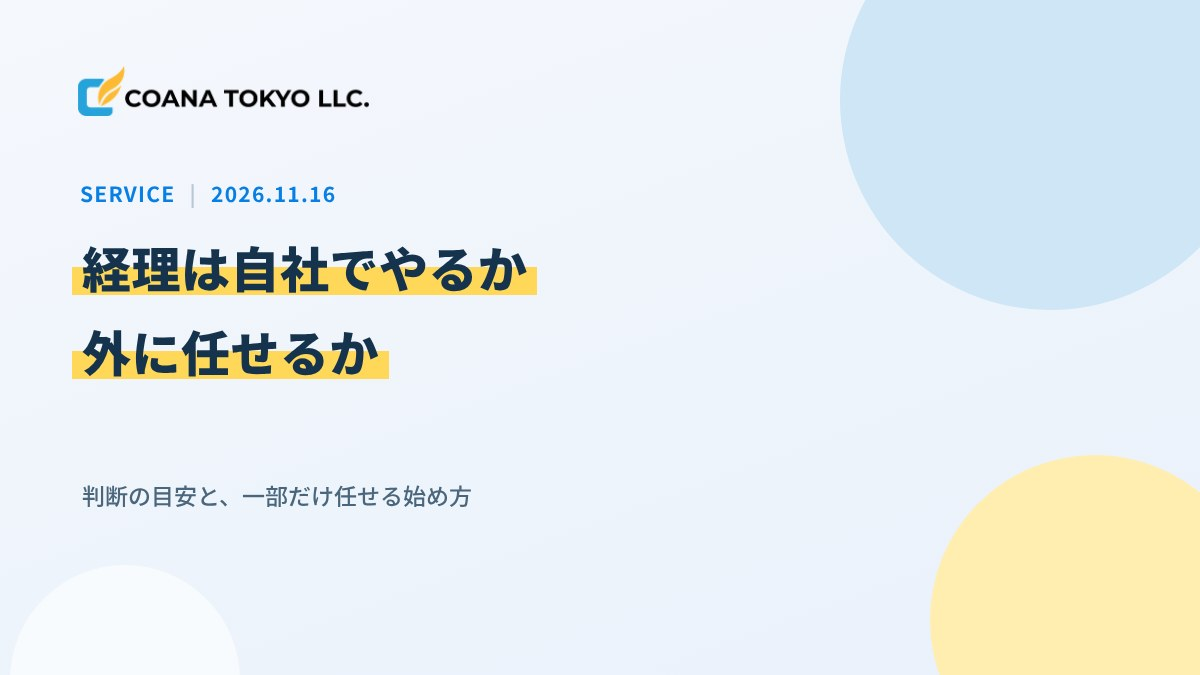
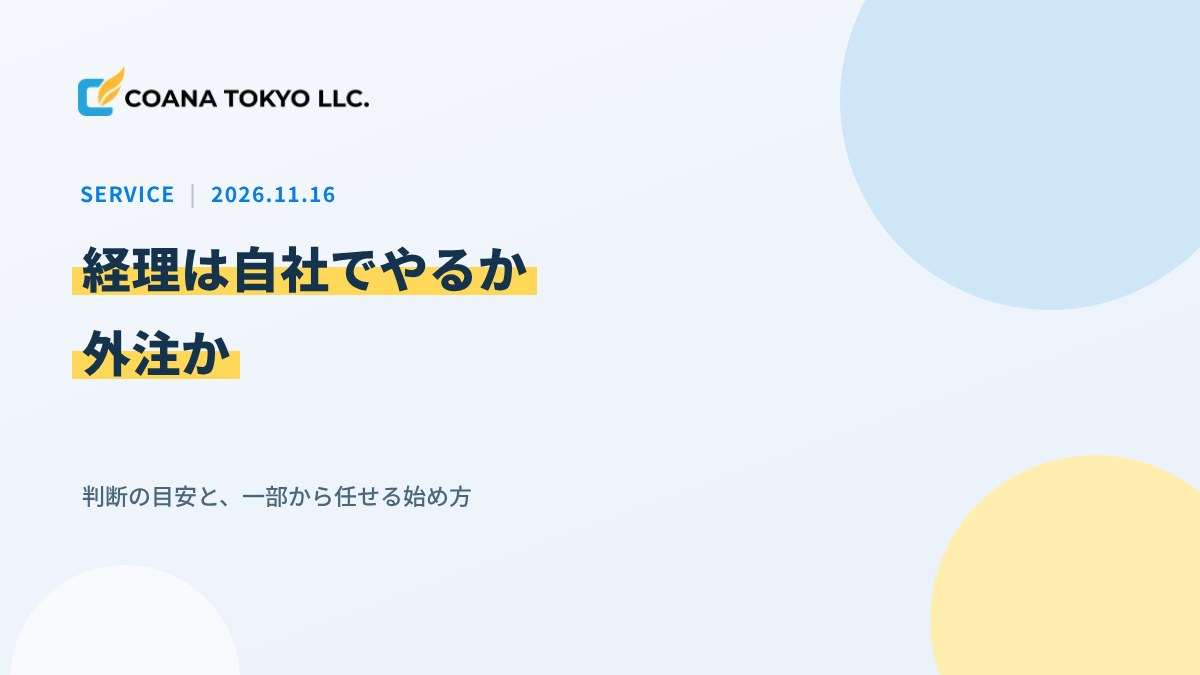
コラム（11/16）：レビュー指摘を反映（既存記事と重なる節を独自の内容に、1か月の記録で確かめる方法、3つの段階の図、失敗例の差し替え）
Claude-Session: https://claude.ai/code/session_01HbxZBk1N9D7dtypAM8AM36

Changed region(s): [[0.0925, 0.4667, 0.3392, 0.5911], [0.2467, 0.7156, 0.2775, 0.7467]]

diff --git a/content/topics/20261116-bookkeeping-inhouse-or-outsource.md b/content/topics/20261116-bookkeeping-inhouse-or-outsource.md
@@ -1,9 +1,9 @@
 ---
-title: "経理は自社でやるか、外に任せるか｜小さな会社の判断の目安と、一部だけ任せる始め方"
+title: "経理は自社でやるか外注か｜小さな会社の判断の目安と、一部から任せる始め方"
 slug: bookkeeping-inhouse-or-outsource
 date: 2026-11-16
 category: サービス
-summary: "社長が自分で経理を続けるか、外に任せるか迷っている小さな会社の経営者向けに、自社で続けやすい場合と外に任せたほうがよい場合の目安、作業と判断の分け方、一部だけ任せて始める進め方とチェックリストをまとめました。"
+summary: "社長が自分で経理を続けるか、外に任せるか迷っている小さな会社の経営者向けに、自社で続けやすい場合と任せどきのサイン、1か月で自社の状況を確かめる方法、一部から任せる進め方とチェックリストをまとめました。"
 seo_title: "経理は自社か外注か｜判断の目安と一部だけ任せる始め方"
 thumbnail: /uploads/topics/20261116-bookkeeping-inhouse-or-outsource.jpg
 service: bookkeeping
@@ -11,102 +11,111 @@ draft: false
 ---
 「経理は自分でやったほうが安心だけれど、本業の時間が足りない」。「外に任せたいが、全部を手放すのは不安」。社長や少人数の社員が経理を兼ねている会社では、よく聞くお悩みです。
 
-この記事では、経理を**自社で続けるか、外に任せるか**を考えるときの目安と、作業と判断の分け方、**一部だけ任せて始める**進め方をまとめます。
+この記事では、経理を自社で続けるか、外に任せる（外注する）かを考えるときの目安と、自社の状況を1か月で確かめる方法、一部から任せて始める進め方をまとめます。
 
-## 結論：「全部自社」か「全部外注」かで考えず、作業ごとに分ける
+## 結論：「全部自社」か「全部外注」かで考えず、段階で選ぶ
 
-経理は、1つの仕事ではなく、入力・請求・支払いの準備・締めといった作業の集まりです。どれを自社に残し、どれを任せるかを作業ごとに決めると、迷いが小さくなります。
+経理は、入力・請求・支払いの準備・締めといった作業の集まりです。自社でやるか外に任せるかは二択ではなく、「自社で続ける」「一部を任せる」「まるごと任せる」の段階で選べます。
 
 - 取引が少なく、社長が数字をつかめているうちは、自社で続ける選択も自然です
-- 本業の時間が削られている、締めが遅れて数字が見えない、といったサインが出たら、外に任せることを考える時期です
-- まずは**手を動かす作業**から1つだけ任せ、**お金の判断**は自社に残すと始めやすくなります
-
-<figure class="article-figure">
-  <img src="/images/topics/bookkeeping-inhouse-or-outsource/decision-signs.svg" alt="自社で続けるか、任せるかの目安。自社で続けやすいのは、取引の件数が少ない、社長が数字をつかめている、経理の時間が負担でないとき。任せどきのサインは、本業の時間が削られている、締めが遅れて数字が見えない、やり方を知る人が1人だけのとき。" width="600" height="534" loading="lazy">
-  <figcaption>図1：自社で続けるか、任せるかの目安</figcaption>
-</figure>
+- 本業の時間が削られている、締めが遅れて数字が見えない、といったサインが出たら、**任せどき**です
+- 迷ったら、1か月だけかかった時間を記録し、**負担の大きい作業を1つ**任せるところから始めます
 
 ## 自社で続けやすいのは、どんなときか
 
+<figure class="article-figure">
+  <img src="/images/topics/bookkeeping-inhouse-or-outsource/decision-signs.svg" alt="自社で続けるか、任せるかの目安。自社で続けやすいのは、取引の件数が少ない、社長が数字をつかめている、かかる時間が負担でないとき。任せどきのサインは、本業の時間が削られている、締めが遅れて数字が見えない、やり方を知る人が1人だけのとき。" width="600" height="534" loading="lazy">
+  <figcaption>図1：自社で続けるか、任せるかの目安</figcaption>
+</figure>
+
 次のようなときは、無理に外へ出さず、自社で続けても回りやすい状態です。
 
-- **取引が少ない**：請求書や支払いの件数が少なく、月に一度まとめて処理しても追いつく
+- **取引の件数が少ない**：請求書や支払いが少なく、月に一度まとめて処理しても追いつく
 - **社長が数字をつかめている**：売上や手元のお金の動きを、聞かれればすぐ答えられる
-- **かかる時間が負担になっていない**：本業の予定を削らずに、決まった日に処理できている
+- **かかる時間が負担でない**：本業の予定を削らずに、決まった日に処理できている
 
-自社で続けるときも、銀行やカードの明細を会計ソフトに取り込む設定や、請求書のひな形づくりなど、手間を減らす工夫はできます。自社でやるか外に任せるかは、一度決めたら終わりではありません。会社の状況に合わせて見直していくものです。
+自社で続けるときも、銀行やカードの明細を会計ソフトに取り込む設定や、請求書のひな形づくりなど、手間を減らす工夫はできます。半年に一度は、下の「1か月の記録」をやり直して、続けられているかを確かめましょう。
 
-## 外に任せることを考えたいサイン
+## 任せどきのサイン
 
 一方で、次のようなことが続いているなら、外に任せることを考えてよい時期です。
 
 - **本業の時間が削られている**：月末や月初に、営業や現場の仕事を止めて事務処理をしている
 - **締めが遅れて数字が見えない**：利益や手元のお金が分かるのが、数か月後や決算のときになっている
-- **1人しかやり方を知らない**：担当者が休むと、請求書が出せない・支払いが止まるおそれがある
+- **やり方を知る人が1人だけ**：担当者が休むと、請求書が出せない・支払いが止まるおそれがある
 - **後回しの山ができている**：領収書や請求書がたまり、まとめて片付けるたびに疲れてしまう
 
-とくに「1人しかやり方を知らない」状態は、外に任せるかどうかに関わらず早めにほどいておきたいところです。進め方は[「あの人しか分からない」をなくす。小さな会社の経理の属人化を解消する4つのステップ](/topics/20260617-bookkeeping-dependency)でまとめています。
+## 1か月だけ記録して、自社の状況を確かめる
 
-## 「作業」は任せやすく、「判断」は自社に残す
+「取引が少ない」「負担でない」と言われても、自社がどちらに当たるかは決めにくいものです。迷ったら、次の3つを1か月だけ記録してみてください。
+
+1. **作業にかけた時間**：入力、請求書づくり、入金の確認、振込の準備など、作業ごとにおおよその時間をメモします
+2. **その時間でできたはずの本業**：営業、お客さまへの対応、新しい仕事の準備など、後回しにしたことを書き出します
+3. **月の数字が分かった日**：先月の売上と利益が、今月の何日に分かったかを確かめます
+
+1か月分がそろうと、社長の時間をどれだけ事務処理に使っているかが見えます。外に任せたときの費用と比べるときは、払う金額だけでなく、空いた時間で本業に何ができるかも並べて考えましょう。費用が何で決まるかは、[経理代行の費用は何で決まる？小さな会社が見積もり前に整理したい3つのこと](/topics/20261110-bookkeeping-outsourcing-cost)でまとめています。
+
+## 「自社で続ける」「一部を任せる」「まるごと任せる」の選び方
 
 <figure class="article-figure">
-  <img src="/images/topics/bookkeeping-inhouse-or-outsource/task-or-decision.svg" alt="任せやすい作業と、自社に残す判断。任せやすい作業は、会計ソフトへの入力、請求書の発行、入金の確認、振込データの作成、月の締め。自社に残す判断は、支払いの承認、値段や条件を決めること、取引先との交渉、経費と認めるかどうか。作業は任せても、最後に決めるのは会社。" width="600" height="570" loading="lazy">
-  <figcaption>図2：任せやすい作業と、自社に残す判断</figcaption>
+  <img src="/images/topics/bookkeeping-inhouse-or-outsource/three-ways.svg" alt="経理の任せ方の3つの段階。自社で続けるのは、取引が少なく時間に余裕がある会社向けで、すべて自社で行う。一部を任せるのは、負担の大きい作業が決まっている会社向けで、残りの作業と承認を自社で行う。まるごと任せるのは、担当者がいない会社や社長が兼任の会社向けで、承認と数字の確認を自社で行う。" width="600" height="600" loading="lazy">
+  <figcaption>図2：経理の任せ方の3つの段階</figcaption>
 </figure>
 
-外に任せるときに不安になりやすいのは、「お金のことを他人に預けてよいのか」という点です。経理の中身を**作業**と**判断**に分けると、任せる範囲を決めやすくなります。
+1か月の記録をもとに、どの段階が合うかを考えます。
 
-- **任せやすい作業**：会計ソフトへの入力、請求書の作成と送付、入金の確認、振込データの作成、月の締め など
-- **自社に残す判断**：支払ってよいかの承認、値段や取引条件を決めること、取引先との交渉、経費として認めるかどうか など
+- **自社で続ける**：取引が少なく、時間に余裕がある会社に向いています。手間を減らす設定を進めながら、定期的に見直します
+- **一部を任せる**：入力だけ、請求書の発行だけなど、負担の大きい作業がはっきりしている会社に向いています。残りの作業と、支払いの承認は自社で行います
+- **まるごと任せる**：担当者がいない、社長が兼任している会社に向いています。入力から月の締めまでを任せ、支払いの承認と、毎月の数字の確認は自社で行います
 
-作業を任せても、最後に「払う」「認める」と決めるのは会社です。たとえば振込データの作成を任せても、実際に振り込むかどうかの承認は社長が行う、という分け方ができます。
+どの段階でも、お金を払ってよいかを決めるのは会社です。任せる作業と自社に残す判断の分け方は、[小規模事業者が経理を外部に任せる前に。経理代行で後悔しないための3つの整理](/topics/20260804-outsourcing-checklist)で詳しくまとめています。
 
 なお、税務申告や税金に関わる判断は税理士の業務です。顧問の税理士がいる場合は、任せる相手と税理士で、資料の受け渡しを決めておくと進めやすくなります。具体的な税務の判断は、顧問の税理士にご確認ください。
 
-## 一部だけ任せて始める進め方
+## 一部から任せて始める進め方
 
 <figure class="article-figure">
-  <img src="/images/topics/bookkeeping-inhouse-or-outsource/start-small.svg" alt="一部だけ任せて始める進め方。1 負担の大きい作業を1つ選ぶ、2 資料の渡し方と締めの日を決める、3 1〜2か月ためしてみる、4 時間と数字を振り返る、5 任せる範囲を広げるか決める。" width="600" height="654" loading="lazy">
-  <figcaption>図3：一部だけ任せて始める進め方</figcaption>
+  <img src="/images/topics/bookkeeping-inhouse-or-outsource/start-small.svg" alt="一部から任せて始める進め方。1 負担の大きい作業を1つ選ぶ、2 資料の渡し方と締めの日を決める、3 1〜2か月ためしてみる、4 時間と数字を振り返る、5 任せる範囲を広げるか決める。" width="600" height="654" loading="lazy">
+  <figcaption>図3：一部から任せて始める進め方</figcaption>
 </figure>
 
-いきなりすべてを任せる必要はありません。負担の大きい作業を1つ選び、小さく始めると、任せる相手との進め方も確かめられます。
+「一部を任せる」から始めると、任せる相手との進め方を確かめながら、少しずつ広げられます。
 
-1. **負担の大きい作業を1つ選ぶ**：毎月いちばん時間を取られている作業、後回しになりがちな作業から選びます
+1. **負担の大きい作業を1つ選ぶ**：1か月の記録で、いちばん時間を取られていた作業から選びます
 2. **資料の渡し方と締めの日を決める**：領収書や請求書をどこに置くか、いつまでにそろえるかを先に決めます
 3. **1〜2か月ためしてみる**：最初の月は質問のやりとりが多くなりがちです。2か月目に落ち着くかを見ます
-4. **時間と数字を振り返る**：社長の時間が空いたか、月の数字が早く見えるようになったかを確かめます
+4. **時間と数字を振り返る**：もう一度1か月の記録をとり、社長の時間が空いたか、月の数字が早く分かるようになったかを比べます
 5. **任せる範囲を広げるか決める**：うまく回っていれば、次の作業を足します。合わなければ、自社に戻すこともできます
 
-COANA TOKYOの[経理代行](/services/bookkeeping)でも、請求書の発行だけ、入力だけといった一部のご依頼から始められます。任せる範囲の決め方や、依頼の前に整理しておきたいことは、[小規模事業者が経理を外部に任せる前に。経理代行で後悔しないための3つの整理](/topics/20260804-outsourcing-checklist)でまとめています。
+COANA TOKYOの[経理代行](/services/bookkeeping)でも、一部の作業から始められます。
 
 ## 自社か外注かを考えるチェックリスト
 
-- [ ] 毎月、入力や請求にどれくらいの時間を使っているか、おおよそつかんだ
-- [ ] 月の売上・利益・手元のお金が、いつ分かっているかを確かめた
+- [ ] 1か月だけ、かかった時間を作業ごとに記録した
+- [ ] その時間で、後回しにした本業を書き出した
+- [ ] 先月の数字が、今月の何日に分かったかを確かめた
 - [ ] やり方を知っている人が、2人以上いるか確かめた
-- [ ] 毎月の仕事を、手を動かす作業と、会社が決めることに分けた
+- [ ] 「自社で続ける」「一部を任せる」「まるごと任せる」のどれが合うか考えた
 - [ ] 最初に任せる作業を1つ選んだ
-- [ ] 資料の渡し方と、締めの日を決めた
 - [ ] ためしたあとに振り返る時期を決めた
 
 ## 自社か外注かで迷ったときによくある失敗
 
-### 判断まで丸ごと任せてしまう
+### サインが出ているのに、決算まで先送りする
 
-「全部お任せ」にすると、支払いの承認や経費の可否まで相手任せになり、お金の流れが見えなくなることがあります。作業は任せても、承認と最終の判断は自社に残しましょう。
+「忙しい時期が過ぎたら考えよう」と先送りしているうちに、領収書や請求書がたまり、決算の前にまとめて片付けることになりがちです。サインに気づいたら、まず1か月の記録だけでも始めましょう。
 
-### 任せたあと、数字を見なくなる
+### 社長の時間を数に入れず、自社のほうが安いと決める
 
-外に任せて手が空くと、毎月の報告を開かなくなりがちです。それでは、数字を早く見られるようにした意味が薄れます。報告を受け取る日を決め、月に一度は売上・利益・手元のお金を確かめましょう。
+外に払う費用だけを見ると、自社でやるほうが安く見えます。けれども、社長がこの作業に使っている時間は、本業に使えたはずの時間です。払う金額と、空く時間の両方を並べて比べましょう。
 
-### 自社に戻せない形で任せる
+### 会計ソフトを社長個人のアカウントで使い、あとで渡せない
 
-やり方が相手の頭の中にしかないと、あとで自社に戻したくなったときに困ります。任せるときは、手順や資料の置き場所を残してもらい、会社のアカウントで会計ソフトを使うようにしておきましょう。
+社長個人のアカウントで会計ソフトや銀行の連携を登録していると、外に任せるときや社員に引き継ぐときに、設定を渡せなくなることがあります。会社として使うものは、会社のアカウントで登録し、管理する人を決めておきましょう。
 
 ## まとめ
 
-自社でやるか外に任せるかは、「全部か、ゼロか」で考えると迷いやすくなります。入力・請求・支払いの準備・締めといった作業ごとに分け、手を動かす作業は任せ、支払いの承認などの判断は自社に残すと、無理なく始められます。本業の時間が削られている、数字が見えないといったサインが出ていたら、負担の大きい作業を1つ選んで、小さく任せてみましょう。
+経理を自社でやるか外に任せるかは、「全部か、ゼロか」で考えると迷いやすくなります。「自社で続ける」「一部を任せる」「まるごと任せる」の段階で考え、迷ったら1か月だけ、かかった時間と、月の数字が分かった日を記録してみましょう。任せどきのサインが出ていたら、負担の大きい作業を1つ選んで、小さく任せてみるのがおすすめです。
 
 ## 経理を一部から任せたい方へ
 

diff --git a/docs/seo-content-plan.md b/docs/seo-content-plan.md
@@ -75,7 +75,7 @@
 
 | 作成日 | テーマ# | ファイル | PR | 結果 |
 | --- | --- | --- | --- | --- |
-| 2026-11-16 | 15 | content/topics/20261116-bookkeeping-inhouse-or-outsource.md | （この PR） | 公開待ち（チェック合格で自動公開）。依頼を検討する前段階の「自社か外注か」で迷う人の入口。20261222（採用か外注か）・20260804（任せる前の整理）と重ねず、作業と判断の分け方と一部から始める進め方に絞った |
+| 2026-11-16 | 15 | content/topics/20261116-bookkeeping-inhouse-or-outsource.md | （この PR） | 公開待ち（チェック合格で自動公開）。依頼を検討する前段階の「自社か外注か」で迷う人の入口。20261222（採用か外注か）・20260804（任せる前の整理）・20261110（費用）と重ねず、任せどきのサイン、1か月の記録での確かめ方、3つの段階の選び方に絞った |
 | 2026-11-09 | 24 | content/topics/20261109-it-inventory.md | https://github.com/ibato-byte/coana-website/pull/123 | 公開（2026-11-09、自動公開）。経理代行のテーマが3本続くため、新しい打ち出し（IT化）で記事からの入口がなかった業務改善・IT化支援のテーマを #15 より先に |
 | 2026-11-02 | 14 | content/topics/20261102-bookkeeping-outsourcing-flow.md | https://github.com/ibato-byte/coana-website/pull/106 | 公開 |
 | 2026-10-26 | 13 | content/topics/20261026-bookkeeping-outsourcing-choose.md | https://github.com/ibato-byte/coana-website/pull/91 | 公開（2026-10-26） |
